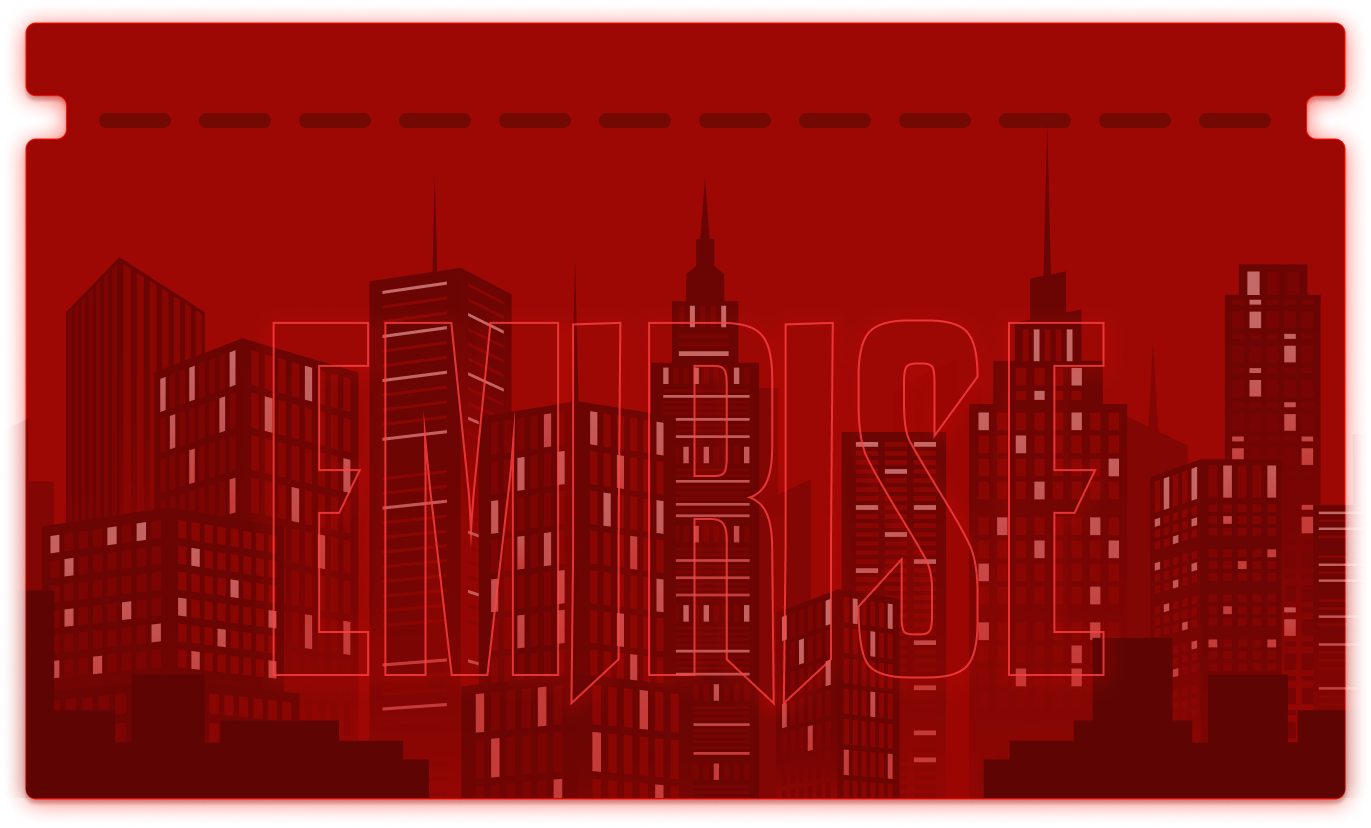
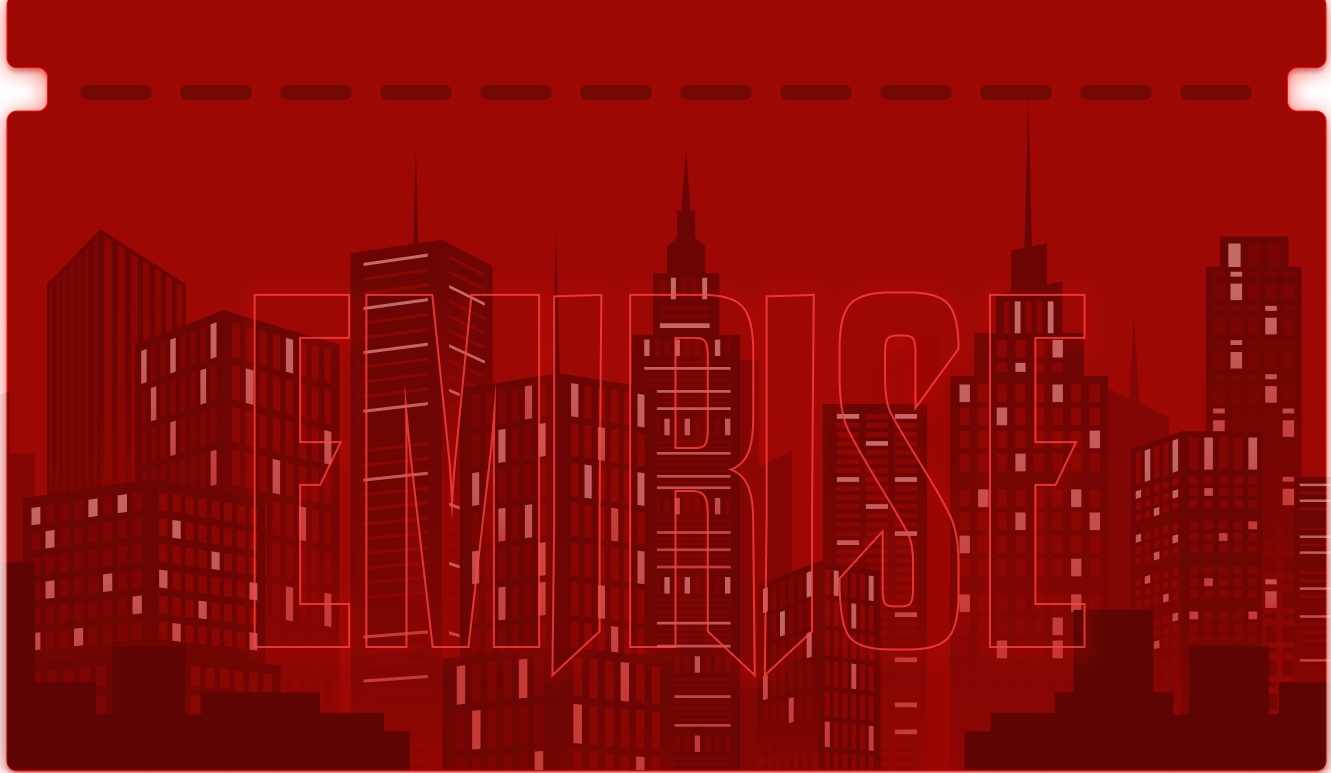
#

Changed region(s): [[0.0, 0.0, 1.0, 1.0], [0.6469, 0.3726, 0.7085, 0.4036]]

diff --git a/src/pages/Home.jsx b/src/pages/Home.jsx
@@ -1,28 +1,43 @@
 import React from 'react';
 import { Calendar, MapPin, Phone, Award, User, ArrowRight, ExternalLink } from 'lucide-react';
 import { Card, CardHeader, CardContent } from '../components/card';
-import BackgroundImage from '../assets/hero.webp';
-import BackgroundImageRespo from '../assets/hero_responsive.webp';
+import BackgroundImage from '../assets/hero.png';
+import BackgroundImageRespo from '../assets/hero_responsive.png';
 import Logo from '../assets/logo.svg';
 import CountdownTimer from '../components/CountdownTimer/CountdownTimer';
+
+
+const AnimatedSection = ({ className = '', children }) => {
+    return (
+        <div className={`relative overflow-hidden ${className}`}>
+            <div className="absolute inset-0 ">
+                <div className="absolute inset-0 bg-gradient-to-r from-red-950/90 via-red-900/90 to-gray-900/90 animate-gradient-xy" />
+                <div className="absolute inset-0 bg-gradient-to-bl from-black/30 via-transparent to-red-900/30 animate-gradient-xy" />
+            </div>
+            <div className="relative z-10">{children}</div>
+        </div>
+    );
+};
+
+
 
 const Home = () => {
     return (
         <div className="min-h-screen bg-gradient-to-br from-red-950 via-red-900 to-gray-900 text-white">
             {/* Hero Section */}
             <header className="relative min-h-screen flex items-center justify-center text-center px-4">
-                <img 
-                    src={BackgroundImage} 
-                    alt="EMIRISE 2K25" 
-                    className="absolute hidden sm:block inset-0 object-cover w-full h-full z-0 brightness-50" 
+                <img
+                    src={BackgroundImage}
+                    alt="EMIRISE 2K25"
+                    className="absolute hidden sm:block bottom-0 inset-0 object-cover w-full h-full z-0 brightness-70"
                 />
-                <img 
-                    src={BackgroundImageRespo} 
-                    alt="EMIRISE 2K25" 
-                    className="absolute sm:hidden inset-0 object-cover w-full h-full z-0 brightness-50" 
+                <img
+                    src={BackgroundImageRespo}
+                    alt="EMIRISE 2K25"
+                    className="absolute sm:hidden inset-0 object-cover w-full h-full z-0 brightness-70"
                 />
-                <div className="absolute inset-0 bg-gradient-to-b from-black/80 via-black/60 to-red-950/80 z-0"></div>
-                
+                <div className="absolute inset-0 bg-gradient-to-b from-red-950/60 via-black/50 to-red-950/60 z-0"></div>
+
                 <div className="relative z-10 max-w-5xl mx-auto">
                     <div className="mb-8 animate-fade-in-down">
                         <img src={Logo} alt="EMIRISE" className="h-32 sm:h-36 mx-auto hover:scale-105 transition-transform" />
@@ -33,7 +48,7 @@ const Home = () => {
                     <p className="text-xl sm:text-3xl mb-12 text-red-50 max-w-3xl mx-auto font-light leading-relaxed">
                         Innovating the Future: Exploring the Power of Knowledge and Entrepreneurship
                     </p>
-                    
+
                     <div className="flex items-center justify-center gap-6 mb-12 flex-wrap">
                         <div className="flex items-center bg-white/10 hover:bg-white/15 backdrop-blur-md rounded-full px-8 py-3 transition-all">
                             <Calendar className="mr-3 text-red-300" />
@@ -70,129 +85,135 @@ const Home = () => {
                 </div>
             </header>
 
-            {/* Events Section */}
-            <section className="py-20 px-4" id="events">
-                <div className="max-w-7xl mx-auto">
-                    <h2 className="text-5xl font-bold text-center mb-16 bg-clip-text text-transparent bg-gradient-to-r from-red-200 to-white">
-                         Events
-                    </h2>
-                    <div className="grid grid-cols-1 md:grid-cols-3 gap-8">
-                        {[
-                            {
-                                title: "IDEATHON",
-                                description: "Present your innovative ideas and solutions to real-world problems.",
-                                coordinators: [
-                                    { name: "Sinan", phone: "9061034005" },
-                                    { name: "Mehrin", phone: "9880021044" }
-                                ],
-                                prizepool: "₹17,000"
-                            },
-                            {
-                                title: "BIZ QUIZ",
-                                description: "Test your knowledge of business, economics, and current affairs.",
-                                coordinators: [
-                                    { name: "Rashid", phone: "7736715006" },
-                                    { name: "Rizwan", phone: "7025872660" }
-                                ],
-                                prizepool: "₹8,000"
-                            },
-                            {
-                                title: "TREASURE HUNT",
-                                description: "Navigate through challenging clues and puzzles in this exciting adventure.",
-                                coordinators: [
-                                    { name: "Fabin", phone: "62358 22330" },
-                                    { name: "Salman", phone: "9526855307" }
-                                ],
-                                prizepool: "₹11,000"
-                            }
-                        ].map((event, index) => (
-                            <Card key={index} className="bg-white/5 backdrop-blur-md border-0 hover:bg-white/10 transition-all transform hover:scale-105">
-                                <CardHeader>
-                                    <h3 className="text-2xl font-bold text-center text-red-200">{event.title}</h3>
-                                    <p className="text-gray-300 mt-2 text-center">{event.description}</p>
-                                </CardHeader>
-                                <CardContent>
-                                    <div className="flex items-center justify-center mb-4">
-                                        <Award className="mr-2 text-yellow-500" />
-                                        <span className="text-xl font-semibold text-yellow-500">{event.prizepool}</span>
-                                    </div>
-                                    <div className="space-y-2">
-                                        {event.coordinators.map((coordinator, idx) => (
-                                            <div key={idx} className="flex items-center justify-between text-sm">
-                                                <span className="text-gray-300">{coordinator.name}</span>
-                                                <a href={`tel:+91${coordinator.phone}`} className="text-red-300 hover:text-red-200">
-                                                    <Phone className="inline-block mr-1" size={14} />
-                                                    {coordinator.phone}
-                                                </a>
-                                            </div>
-                                        ))}
-                                    </div>
-                                </CardContent>
-                            </Card>
-                        ))}
+            <AnimatedSection className="pt-24  backdrop-blur-lg" >
+                {/* Events Section */}
+                <section className="py-20 px-4" id="events">
+                    <div className="max-w-7xl mx-auto">
+                        <h2 className="text-5xl font-bold text-center mb-16 bg-clip-text text-transparent bg-gradient-to-r from-red-200 to-white">
+                            Events
+                        </h2>
+                        <div className="grid grid-cols-1 md:grid-cols-3 gap-8">
+                            {[
+                                {
+                                    title: "IDEATHON",
+                                    description: "Present your innovative ideas and solutions to real-world problems.",
+                                    coordinators: [
+                                        { name: "Sinan", phone: "9061034005" },
+                                        { name: "Mehrin", phone: "9880021044" }
+                                    ],
+                                    prizepool: "₹17,000"
+                                },
+                                {
+                                    title: "BIZ QUIZ",
+                                    description: "Test your knowledge of business, economics, and current affairs.",
+                                    coordinators: [
+                                        { name: "Rashid", phone: "7736715006" },
+                                        { name: "Rizwan", phone: "7025872660" }
+                                    ],
+                                    prizepool: "₹8,000"
+                                },
+                                {
+                                    title: "TREASURE HUNT",
+                                    description: "Navigate through challenging clues and puzzles in this exciting adventure.",
+                                    coordinators: [
+                                        { name: "Fabin", phone: "62358 22330" },
+                                        { name: "Salman", phone: "9526855307" }
+                                    ],
+                                    prizepool: "₹11,000"
+                                }
+                            ].map((event, index) => (
+                                <Card key={index} className="bg-white/5 backdrop-blur-md border-0 hover:bg-white/10 transition-all transform hover:scale-105">
+                                    <CardHeader>
+                                        <h3 className="text-2xl font-bold text-center text-red-200">{event.title}</h3>
+                                        <p className="text-gray-300 mt-2 text-center">{event.description}</p>
+                                    </CardHeader>
+                                    <CardContent>
+                                        <div className="flex items-center justify-center mb-4">
+                                            <Award className="mr-2 text-yellow-500" />
+                                            <span className="text-xl font-semibold text-yellow-500">{event.prizepool}</span>
+                                        </div>
+                                        <div className="space-y-2">
+                                            {event.coordinators.map((coordinator, idx) => (
+                                                <div key={idx} className="flex items-center justify-between text-sm">
+                                                    <span className="text-gray-300">{coordinator.name}</span>
+                                                    <a href={`tel:+91${coordinator.phone}`} className="text-red-300 hover:text-red-200">
+                                                        <Phone className="inline-block mr-1" size={14} />
+                                                        {coordinator.phone}
+                                                    </a>
+                                                </div>
+                                            ))}
+                                        </div>
+                                    </CardContent>
+                                </Card>
+                            ))}
+                        </div>
                     </div>
-                </div>
-            </section>
+                </section>
 
-            {/* Summit Section */}
-            <section className="py-24 px-4 bg-gradient-to-r from-red-950/80 to-gray-900/80 backdrop-blur-lg" id="summit">
-                <div className="max-w-4xl mx-auto text-center">
-                    <h2 className="text-4xl sm:text-5xl font-bold mb-8 bg-clip-text text-transparent bg-gradient-to-r from-red-200 to-white">
-                        Student Entrepreneurs Summit
-                    </h2>
-                    <p className="text-xl leading-relaxed mb-12 text-gray-200">
-                        Join us for an exclusive summit celebrating student entrepreneurship. Present your ideas, connect with industry leaders, and compete for the prestigious Student Entrepreneurs Award.
-                    </p>
-                    <a
-                        href="https://docs.google.com/forms/d/e/1FAIpQLScRdlCROl46mrMX7YfUuTv2uOZ0NOHtVY9SCPUQOelOB9w9yQ/viewform"
-                        target="_blank"
-                        rel="noopener noreferrer"
-                        className="inline-flex items-center bg-white/15 hover:bg-white/25 text-white font-semibold py-4 px-8 rounded-full transition-all transform hover:scale-105 shadow-lg"
-                    >
-                        <Award className="mr-2" />
-                        Apply Now
-                        <ExternalLink className="ml-2" size={18} />
-                    </a>
-                </div>
-            </section>
-
-            {/* About Section */}
-            <section className="py-24 px-4 bg-black/30" id="about">
-                <div className="max-w-4xl mx-auto">
-                    <h2 className="text-4xl sm:text-5xl font-bold mb-12 text-center bg-clip-text text-transparent bg-gradient-to-r from-red-200 to-white">
-                        About EMIRISE
-                    </h2>
-                    <p className="text-xl leading-relaxed mb-8 text-gray-200">
-                        The Entrepreneurs' Summit & Idea Presentation Competition at EMEA College is designed to inspire creativity and nurture entrepreneurial talent.
-                        By connecting thought leaders, innovators, and aspiring entrepreneurs, the summit fosters collaboration, innovation, and problem-solving.
-                        The event provides an excellent opportunity for students to present their ideas, receive feedback from industry experts, and gain insights into entrepreneurship.
-                    </p>
-                </div>
-            </section>
-
-            {/* Footer */}
-            <footer className="py-16 px-4 bg-black/60">
-                <div className="max-w-4xl mx-auto text-center">
-                    <h2 className="text-3xl font-bold mb-8 text-red-200">Contact Coordinators</h2>
-                    <div className="flex flex-col md:flex-row justify-center gap-8 md:gap-16">
-                        {[
-                            { name: "Sunain", phone: "8281775230" },
-                            { name: "Rashid", phone: "7736715006" }
-                        ].map((coordinator, index) => (
-                            <div key={index} className="flex items-center justify-center bg-white/5 backdrop-blur-md rounded-full px-6 py-3 hover:bg-white/10 transition-all">
-                                <User className="mr-2 text-red-300" size={18} />
-                                <span className="mr-2">{coordinator.name}:</span>
-                                <Phone className="mr-1 text-red-300" size={14} />
-                                <a href={`tel:+91${coordinator.phone}`} className="hover:text-red-300 transition-colors">
-                                    +91 {coordinator.phone}
-                                </a>
-                            </div>
-                        ))}
+                {/* Summit Section */}
+                <section id="summit">
+                    <div className="max-w-4xl mx-auto text-center">
+                        <h2 className="text-4xl sm:text-5xl font-bold mb-8 bg-clip-text text-transparent bg-gradient-to-r from-red-200 to-white">
+                            Student Entrepreneurs Summit
+                        </h2>
+                        <p className="text-xl leading-relaxed mb-12 text-gray-200">
+                            Join us for an exclusive summit celebrating student entrepreneurship. Present your ideas, connect with industry leaders, and compete for the prestigious Student Entrepreneurs Award.
+                        </p>
+                        <a
+                            href="https://docs.google.com/forms/d/e/1FAIpQLScRdlCROl46mrMX7YfUuTv2uOZ0NOHtVY9SCPUQOelOB9w9yQ/viewform"
+                            target="_blank"
+                            rel="noopener noreferrer"
+                            className="inline-flex items-center bg-white/15 hover:bg-white/25 text-white font-semibold py-4 px-8 rounded-full transition-all transform hover:scale-105 shadow-lg"
+                        >
+                            <Award className="mr-2" />
+                            Apply Now
+                            <ExternalLink className="ml-2" size={18} />
+                        </a>
                     </div>
-                </div>
-            </footer>
+                </section>
+
+                {/* About Section */}
+                <section className="py-24 px-4" id="about">
+                    <div className="max-w-4xl mx-auto">
+                        <h2 className="text-4xl sm:text-5xl font-bold mb-12 text-center bg-clip-text text-transparent bg-gradient-to-r from-red-200 to-white animate-gradient-xy">
+                            About EMIRISE
+                        </h2>
+                        <p className="text-xl leading-relaxed mb-8 text-gray-200">
+                            The Entrepreneurs' Summit & Idea Presentation Competition at EMEA College is designed to inspire creativity and nurture entrepreneurial talent.
+                            By connecting thought leaders, innovators, and aspiring entrepreneurs, the summit fosters collaboration, innovation, and problem-solving.
+                            The event provides an excellent opportunity for students to present their ideas, receive feedback from industry experts, and gain insights into entrepreneurship.
+                        </p>
+                    </div>
+                </section>
+
+                <div className='backdrop-blur-lg blur-2xl bg-black/50 absolute w-full h-[400px] z-0' />
+
+                {/* Footer */}
+                <footer className=" py-16 px-4 relative">
+                    <div className="max-w-4xl mx-auto text-center z-10">
+                        <h2 className="text-3xl font-bold mb-8 text-red-100 z-10">Contact Coordinators</h2>
+                        <div className="flex flex-col md:flex-row justify-center gap-8 md:gap-16">
+                            {[
+                                { name: "Sunain", phone: "8281775230" },
+                                { name: "Rashid", phone: "7736715006" }
+                            ].map((coordinator, index) => (
+                                <div key={index} className="flex items-center justify-center bg-white/5 backdrop-blur-lg rounded-full px-6 py-3 hover:bg-white/10 transition-all">
+                                    <User className="mr-2 text-red-300" size={18} />
+                                    <span className="mr-2">{coordinator.name}:</span>
+                                    <Phone className="mr-1 text-red-300" size={14} />
+                                    <a href={`tel:+91${coordinator.phone}`} className="hover:text-red-300 transition-colors">
+                                        +91 {coordinator.phone}
+                                    </a>
+                                </div>
+                            ))}
+                        </div>
+                    </div>
+                </footer>
+            </AnimatedSection>
         </div>
     );
 };
 
 export default Home;
+
+

diff --git a/src/index.css b/src/index.css
@@ -41,4 +41,36 @@ body {
 html {
   scroll-behavior: smooth;
 }
+.animate-gradient-xy {
+  animation: gradient-xy 15s ease infinite;
+  background-size: 200% 200%;
+}
+
+.animate-gradient-text {
+  animation: gradient-text 3s ease infinite;
+}
+@keyframes gradient-xy {
+  0%, 100% {
+    background-position: 0% 50%;
+  }
+  50% {
+    background-position: 100% 50%;
+  }
+}
+
+@keyframes gradient-text {
+  0%, 100% {
+    background-size: 200% 200%;
+    background-position: left center;
+  }
+  50% {
+    background-size: 200% 200%;
+    background-position: right center;
+  }
+}
+
+.footer-shadow {
+  box-shadow: 0px -50px 30px rgba(0, 0, 0, 0.733);
+}
+
 
